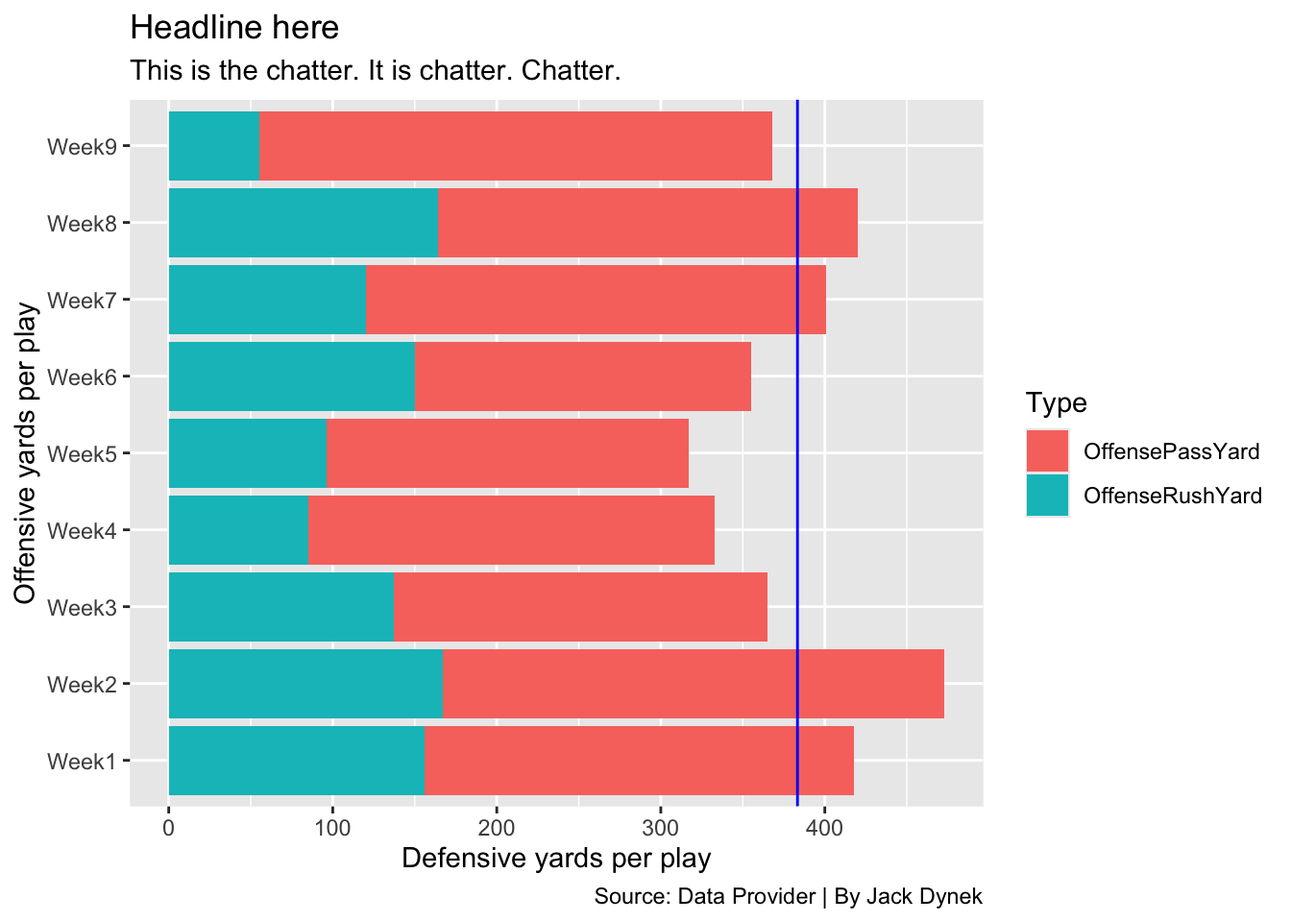
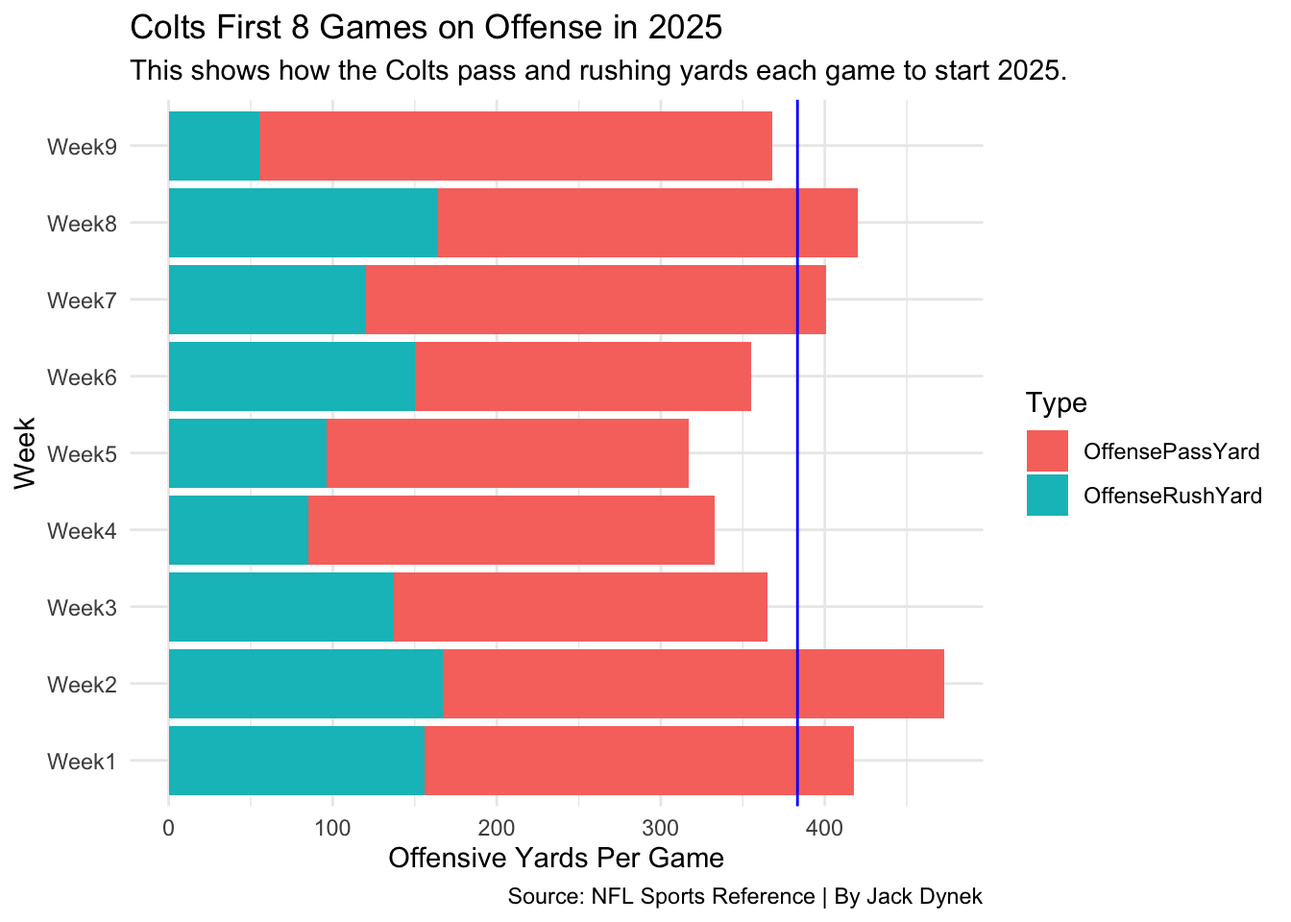
Final Changes

Changed region(s): [[0.0938, 0.0, 0.8125, 0.875], [0.3125, 0.9062, 0.625, 1.0], [0.0, 0.3125, 0.0312, 0.6562]]

diff --git a/posts/Colts/index.html b/posts/Colts/index.html
@@ -7,9 +7,9 @@
 <meta name="viewport" content="width=device-width, initial-scale=1.0, user-scalable=yes">
 
 <meta name="author" content="Jack Dynek">
-<meta name="dcterms.date" content="2025-11-04">
+<meta name="dcterms.date" content="2025-11-17">
 
-<title>The 2025 Colts Are A Spectacular Team – SportsBlog</title>
+<title>The 2025 Colts are an Unexpected Cindarella Story – SportsBlog</title>
 <style>
 code{white-space: pre-wrap;}
 span.smallcaps{font-variant: small-caps;}
@@ -154,7 +154,7 @@ pre > code.sourceCode > span > a:first-child::before { text-decoration: underlin
 <header id="title-block-header" class="quarto-title-block default page-columns page-full">
   <div class="quarto-title-banner page-columns page-full">
     <div class="quarto-title column-body">
-      <h1 class="title">The 2025 Colts Are A Spectacular Team</h1>
+      <h1 class="title">The 2025 Colts are an Unexpected Cindarella Story</h1>
                                 <div class="quarto-categories">
                 <div class="quarto-category">NFL</div>
                 <div class="quarto-category">Football</div>
@@ -176,7 +176,7 @@ pre > code.sourceCode > span > a:first-child::before { text-decoration: underlin
       <div>
       <div class="quarto-title-meta-heading">Published</div>
       <div class="quarto-title-meta-contents">
-        <p class="date">November 4, 2025</p>
+        <p class="date">November 17, 2025</p>
       </div>
     </div>
     
@@ -195,7 +195,9 @@ pre > code.sourceCode > span > a:first-child::before { text-decoration: underlin
 
 
 
-<p>The Indianapolis Colts in the course of one offseason have take a team that was nearly unwatchable, to an extremely exciting offense.</p>
+<p>The Indianapolis Colts in the course of one offseason have taken a team that was nearly unwatchable, to an extremely exciting offense.</p>
+<p>Through 10 games Daniel Jones is third in the league in Passing Yards, while Jonathan Taylor is leading the league by nearly 200 Rushing Yards as he looks to win his first Offensive Player of the Year and hopefully an MVP. But those stats understate how good this team has been.</p>
+<p>With last years team being 8-9 and incredibly boring to watch, this team already has 8 wins. With a turnaround like this fans have to wonder what changed for the colts. One statistic immediately jumps out this year compared to last for the colts, and that’s their Percentages of drives ending in scores.</p>
 <div class="cell">
 <details class="code-fold">
 <summary>Code</summary>
@@ -226,9 +228,10 @@ pre > code.sourceCode > span > a:first-child::before { text-decoration: underlin
 <span id="cb1-25"><a href="#cb1-25" aria-hidden="true" tabindex="-1"></a>    <span class="at">x=</span><span class="st">"Season"</span>, </span>
 <span id="cb1-26"><a href="#cb1-26" aria-hidden="true" tabindex="-1"></a>    <span class="at">y=</span><span class="st">"Percentage of drives ending in scores"</span>, </span>
 <span id="cb1-27"><a href="#cb1-27" aria-hidden="true" tabindex="-1"></a>    <span class="at">title=</span><span class="st">"NFL Offenses drives ending in scores by year"</span>, </span>
-<span id="cb1-28"><a href="#cb1-28" aria-hidden="true" tabindex="-1"></a>    <span class="at">subtitle=</span><span class="st">"This is the chatter. It is chatter. Chatter."</span>, </span>
+<span id="cb1-28"><a href="#cb1-28" aria-hidden="true" tabindex="-1"></a>    <span class="at">subtitle=</span><span class="st">"This is how the Colts compare against the past years Superbowl matchup."</span>, </span>
 <span id="cb1-29"><a href="#cb1-29" aria-hidden="true" tabindex="-1"></a>    <span class="at">caption=</span><span class="st">"Source: Data Provider | By Jack Dynek"</span></span>
-<span id="cb1-30"><a href="#cb1-30" aria-hidden="true" tabindex="-1"></a>    )</span></code></pre></div><button title="Copy to Clipboard" class="code-copy-button"><i class="bi"></i></button></div>
+<span id="cb1-30"><a href="#cb1-30" aria-hidden="true" tabindex="-1"></a>    ) <span class="sc">+</span></span>
+<span id="cb1-31"><a href="#cb1-31" aria-hidden="true" tabindex="-1"></a>  <span class="fu">theme_minimal</span>()</span></code></pre></div><button title="Copy to Clipboard" class="code-copy-button"><i class="bi"></i></button></div>
 </details>
 <div class="cell-output-display">
 <div>
@@ -238,7 +241,7 @@ pre > code.sourceCode > span > a:first-child::before { text-decoration: underlin
 </div>
 </div>
 </div>
-<p>As we can see</p>
+<p>As we can see the colts have made a major jump. going from bottom middle of the pack. To leading the league by over 6% of drives. With a turnaround like that it’s no wonder why this team is so much more successful. Beyond just that though their success can be reflected in how many more yards they’re averaging per game.</p>
 <div class="cell">
 <details class="code-fold">
 <summary>Code</summary>
@@ -264,12 +267,13 @@ pre > code.sourceCode > span > a:first-child::before { text-decoration: underlin
 <span id="cb2-20"><a href="#cb2-20" aria-hidden="true" tabindex="-1"></a>  <span class="fu">geom_bar</span>(<span class="at">data=</span>longame824, <span class="fu">aes</span>(<span class="at">x=</span>Week, <span class="at">weight=</span>Yards, <span class="at">fill=</span>Type)) <span class="sc">+</span> <span class="fu">geom_hline</span>(<span class="at">yintercept=</span><span class="dv">315</span>, <span class="at">color=</span><span class="st">"blue"</span>) <span class="sc">+</span></span>
 <span id="cb2-21"><a href="#cb2-21" aria-hidden="true" tabindex="-1"></a>  <span class="fu">coord_flip</span>()<span class="sc">+</span> </span>
 <span id="cb2-22"><a href="#cb2-22" aria-hidden="true" tabindex="-1"></a>  <span class="fu">labs</span>(</span>
-<span id="cb2-23"><a href="#cb2-23" aria-hidden="true" tabindex="-1"></a>    <span class="at">x=</span><span class="st">"Offensive yards per play"</span>, </span>
-<span id="cb2-24"><a href="#cb2-24" aria-hidden="true" tabindex="-1"></a>    <span class="at">y=</span><span class="st">"Defensive yards per play"</span>, </span>
-<span id="cb2-25"><a href="#cb2-25" aria-hidden="true" tabindex="-1"></a>    <span class="at">title=</span><span class="st">"Headline here"</span>, </span>
-<span id="cb2-26"><a href="#cb2-26" aria-hidden="true" tabindex="-1"></a>    <span class="at">subtitle=</span><span class="st">"This is the chatter. It is chatter. Chatter."</span>, </span>
+<span id="cb2-23"><a href="#cb2-23" aria-hidden="true" tabindex="-1"></a>    <span class="at">x=</span><span class="st">"Week"</span>, </span>
+<span id="cb2-24"><a href="#cb2-24" aria-hidden="true" tabindex="-1"></a>    <span class="at">y=</span><span class="st">"Offensive Yards Per Game"</span>, </span>
+<span id="cb2-25"><a href="#cb2-25" aria-hidden="true" tabindex="-1"></a>    <span class="at">title=</span><span class="st">"Colts First 8 Games on Offense in 2024"</span>, </span>
+<span id="cb2-26"><a href="#cb2-26" aria-hidden="true" tabindex="-1"></a>    <span class="at">subtitle=</span><span class="st">"This shows how the Colts pass and rushing yards each game to start 2024."</span>, </span>
 <span id="cb2-27"><a href="#cb2-27" aria-hidden="true" tabindex="-1"></a>    <span class="at">caption=</span><span class="st">"Source: Data Provider | By Jack Dynek"</span></span>
-<span id="cb2-28"><a href="#cb2-28" aria-hidden="true" tabindex="-1"></a>    )</span></code></pre></div><button title="Copy to Clipboard" class="code-copy-button"><i class="bi"></i></button></div>
+<span id="cb2-28"><a href="#cb2-28" aria-hidden="true" tabindex="-1"></a>    ) <span class="sc">+</span></span>
+<span id="cb2-29"><a href="#cb2-29" aria-hidden="true" tabindex="-1"></a>    <span class="fu">theme_minimal</span>()</span></code></pre></div><button title="Copy to Clipboard" class="code-copy-button"><i class="bi"></i></button></div>
 </details>
 <div class="cell-output-display">
 <div>
@@ -279,7 +283,7 @@ pre > code.sourceCode > span > a:first-child::before { text-decoration: underlin
 </div>
 </div>
 </div>
-<p>This is the start to the colts season in 2024, and it shows the 315 average</p>
+<p>This is the start to the colts season in 2024, and through eight games they averaged 315 yards and relied heavily on the pass game, only going over 400 yards once.</p>
 <div class="cell">
 <details class="code-fold">
 <summary>Code</summary>
@@ -287,12 +291,13 @@ pre > code.sourceCode > span > a:first-child::before { text-decoration: underlin
 <span id="cb3-2"><a href="#cb3-2" aria-hidden="true" tabindex="-1"></a>  <span class="fu">geom_bar</span>(<span class="at">data=</span>longame825, <span class="fu">aes</span>(<span class="at">x=</span>Week, <span class="at">weight=</span>Yards, <span class="at">fill=</span>Type)) <span class="sc">+</span> </span>
 <span id="cb3-3"><a href="#cb3-3" aria-hidden="true" tabindex="-1"></a>  <span class="fu">coord_flip</span>()<span class="sc">+</span>  <span class="fu">geom_hline</span>(<span class="at">yintercept=</span><span class="fl">383.33</span>, <span class="at">color=</span><span class="st">"blue"</span>) <span class="sc">+</span></span>
 <span id="cb3-4"><a href="#cb3-4" aria-hidden="true" tabindex="-1"></a>  <span class="fu">labs</span>(</span>
-<span id="cb3-5"><a href="#cb3-5" aria-hidden="true" tabindex="-1"></a>    <span class="at">x=</span><span class="st">"Offensive yards per play"</span>, </span>
-<span id="cb3-6"><a href="#cb3-6" aria-hidden="true" tabindex="-1"></a>    <span class="at">y=</span><span class="st">"Defensive yards per play"</span>, </span>
-<span id="cb3-7"><a href="#cb3-7" aria-hidden="true" tabindex="-1"></a>    <span class="at">title=</span><span class="st">"Headline here"</span>, </span>
-<span id="cb3-8"><a href="#cb3-8" aria-hidden="true" tabindex="-1"></a>    <span class="at">subtitle=</span><span class="st">"This is the chatter. It is chatter. Chatter."</span>, </span>
-<span id="cb3-9"><a href="#cb3-9" aria-hidden="true" tabindex="-1"></a>    <span class="at">caption=</span><span class="st">"Source: Data Provider | By Jack Dynek"</span></span>
-<span id="cb3-10"><a href="#cb3-10" aria-hidden="true" tabindex="-1"></a>    )</span></code></pre></div><button title="Copy to Clipboard" class="code-copy-button"><i class="bi"></i></button></div>
+<span id="cb3-5"><a href="#cb3-5" aria-hidden="true" tabindex="-1"></a>    <span class="at">x=</span><span class="st">"Week"</span>, </span>
+<span id="cb3-6"><a href="#cb3-6" aria-hidden="true" tabindex="-1"></a>    <span class="at">y=</span><span class="st">"Offensive Yards Per Game"</span>, </span>
+<span id="cb3-7"><a href="#cb3-7" aria-hidden="true" tabindex="-1"></a>    <span class="at">title=</span><span class="st">"Colts First 8 Games on Offense in 2025"</span>, </span>
+<span id="cb3-8"><a href="#cb3-8" aria-hidden="true" tabindex="-1"></a>    <span class="at">subtitle=</span><span class="st">"This shows how the Colts pass and rushing yards each game to start 2025."</span>, </span>
+<span id="cb3-9"><a href="#cb3-9" aria-hidden="true" tabindex="-1"></a>    <span class="at">caption=</span><span class="st">"Source: NFL Sports Reference | By Jack Dynek"</span></span>
+<span id="cb3-10"><a href="#cb3-10" aria-hidden="true" tabindex="-1"></a>    ) <span class="sc">+</span></span>
+<span id="cb3-11"><a href="#cb3-11" aria-hidden="true" tabindex="-1"></a>    <span class="fu">theme_minimal</span>()</span></code></pre></div><button title="Copy to Clipboard" class="code-copy-button"><i class="bi"></i></button></div>
 </details>
 <div class="cell-output-display">
 <div>
@@ -302,7 +307,8 @@ pre > code.sourceCode > span > a:first-child::before { text-decoration: underlin
 </div>
 </div>
 </div>
-<p>This on the other hand is the 2025 colts year, 383.3</p>
+<p>This on the other hand is the 2025 Colts year. They averaged 383 yards a game and have already had four games over 400 total yards with plenty of dominant performances from both the run and pass game.</p>
+<p>One player that has directly led to Colts passing game improving is Tyler Warren. Through eight games he already has more recieving yards than the entire Colts tight end room had last year in the entire season. His production is great against even seasoned veterans at the tight end position</p>
 <div class="cell">
 <details class="code-fold">
 <summary>Code</summary>
@@ -313,15 +319,17 @@ pre > code.sourceCode > span > a:first-child::before { text-decoration: underlin
 <span id="cb4-5"><a href="#cb4-5" aria-hidden="true" tabindex="-1"></a>  <span class="fu">arrange</span>(<span class="fu">desc</span>(Yds))</span>
 <span id="cb4-6"><a href="#cb4-6" aria-hidden="true" tabindex="-1"></a></span>
 <span id="cb4-7"><a href="#cb4-7" aria-hidden="true" tabindex="-1"></a>TW <span class="ot">&lt;-</span> terec <span class="sc">|&gt;</span> <span class="fu">filter</span>(Player <span class="sc">==</span> <span class="st">"Tyler Warren"</span>)</span>
-<span id="cb4-8"><a href="#cb4-8" aria-hidden="true" tabindex="-1"></a></span>
-<span id="cb4-9"><a href="#cb4-9" aria-hidden="true" tabindex="-1"></a><span class="fu">ggplot</span>() <span class="sc">+</span> <span class="fu">geom_point</span>(<span class="at">data=</span>terec, <span class="fu">aes</span>(<span class="at">x=</span>Yds, <span class="at">y=</span>Rec, <span class="at">size=</span>TD )) <span class="sc">+</span> <span class="fu">geom_point</span>(<span class="at">data=</span>TW, <span class="fu">aes</span>(<span class="at">x=</span>Yds, <span class="at">y=</span>Rec, <span class="at">size=</span>TD),<span class="at">color=</span><span class="st">"blue"</span>)<span class="sc">+</span> <span class="fu">geom_text_repel</span>(<span class="at">data=</span>TW, <span class="fu">aes</span>(<span class="at">x=</span><span class="dv">490</span>, <span class="at">y=</span><span class="dv">43</span>, <span class="at">label=</span>Player))<span class="sc">+</span></span>
-<span id="cb4-10"><a href="#cb4-10" aria-hidden="true" tabindex="-1"></a>  <span class="fu">labs</span>(</span>
-<span id="cb4-11"><a href="#cb4-11" aria-hidden="true" tabindex="-1"></a>    <span class="at">x=</span><span class="st">"Offensive yards per play"</span>, </span>
-<span id="cb4-12"><a href="#cb4-12" aria-hidden="true" tabindex="-1"></a>    <span class="at">y=</span><span class="st">"Defensive yards per play"</span>, </span>
-<span id="cb4-13"><a href="#cb4-13" aria-hidden="true" tabindex="-1"></a>    <span class="at">title=</span><span class="st">"Headline here"</span>, </span>
-<span id="cb4-14"><a href="#cb4-14" aria-hidden="true" tabindex="-1"></a>    <span class="at">subtitle=</span><span class="st">"This is the chatter. It is chatter. Chatter."</span>, </span>
-<span id="cb4-15"><a href="#cb4-15" aria-hidden="true" tabindex="-1"></a>    <span class="at">caption=</span><span class="st">"Source: Data Provider | By Jack Dynek"</span></span>
-<span id="cb4-16"><a href="#cb4-16" aria-hidden="true" tabindex="-1"></a>    )</span></code></pre></div><button title="Copy to Clipboard" class="code-copy-button"><i class="bi"></i></button></div>
+<span id="cb4-8"><a href="#cb4-8" aria-hidden="true" tabindex="-1"></a>TM <span class="ot">&lt;-</span> terec <span class="sc">|&gt;</span> <span class="fu">filter</span>(Player <span class="sc">==</span> <span class="st">"Trey McBride"</span>)</span>
+<span id="cb4-9"><a href="#cb4-9" aria-hidden="true" tabindex="-1"></a></span>
+<span id="cb4-10"><a href="#cb4-10" aria-hidden="true" tabindex="-1"></a><span class="fu">ggplot</span>() <span class="sc">+</span> <span class="fu">geom_point</span>(<span class="at">data=</span>terec, <span class="fu">aes</span>(<span class="at">x=</span>Yds, <span class="at">y=</span>Rec, <span class="at">size=</span>TD )) <span class="sc">+</span> <span class="fu">geom_point</span>(<span class="at">data=</span>TW, <span class="fu">aes</span>(<span class="at">x=</span>Yds, <span class="at">y=</span>Rec, <span class="at">size=</span>TD),<span class="at">color=</span><span class="st">"blue"</span>)<span class="sc">+</span> <span class="fu">geom_text_repel</span>(<span class="at">data=</span>TW, <span class="fu">aes</span>(<span class="at">x=</span><span class="dv">490</span>, <span class="at">y=</span><span class="dv">43</span>, <span class="at">label=</span>Player))<span class="sc">+</span> <span class="fu">geom_point</span>(<span class="at">data=</span>TM, <span class="fu">aes</span>(<span class="at">x=</span>Yds, <span class="at">y=</span>Rec, <span class="at">size=</span>TD),<span class="at">color=</span><span class="st">"red"</span>) <span class="sc">+</span> <span class="fu">geom_text_repel</span>(<span class="at">data=</span>TM, <span class="fu">aes</span>(<span class="at">x=</span><span class="dv">480</span>, <span class="at">y=</span><span class="dv">50</span>, <span class="at">label=</span>Player))<span class="sc">+</span></span>
+<span id="cb4-11"><a href="#cb4-11" aria-hidden="true" tabindex="-1"></a>  <span class="fu">labs</span>(</span>
+<span id="cb4-12"><a href="#cb4-12" aria-hidden="true" tabindex="-1"></a>    <span class="at">x=</span><span class="st">"Total Recieving Yards"</span>, </span>
+<span id="cb4-13"><a href="#cb4-13" aria-hidden="true" tabindex="-1"></a>    <span class="at">y=</span><span class="st">"Total Catches"</span>, </span>
+<span id="cb4-14"><a href="#cb4-14" aria-hidden="true" tabindex="-1"></a>    <span class="at">title=</span><span class="st">"NFL Tight End Recieving Leaders"</span>, </span>
+<span id="cb4-15"><a href="#cb4-15" aria-hidden="true" tabindex="-1"></a>    <span class="at">subtitle=</span><span class="st">"This is how tight ends across the league compare statistically with each other."</span>, </span>
+<span id="cb4-16"><a href="#cb4-16" aria-hidden="true" tabindex="-1"></a>    <span class="at">caption=</span><span class="st">"Source: NFL Sports Reference | By Jack Dynek"</span></span>
+<span id="cb4-17"><a href="#cb4-17" aria-hidden="true" tabindex="-1"></a>    ) <span class="sc">+</span></span>
+<span id="cb4-18"><a href="#cb4-18" aria-hidden="true" tabindex="-1"></a>    <span class="fu">theme_minimal</span>()</span></code></pre></div><button title="Copy to Clipboard" class="code-copy-button"><i class="bi"></i></button></div>
 </details>
 <div class="cell-output-display">
 <div>
@@ -331,34 +339,24 @@ pre > code.sourceCode > span > a:first-child::before { text-decoration: underlin
 </div>
 </div>
 </div>
+<p>While Tyler Warren has meant a lot for the Colts, it’s hard to argue any players impact more than Jonathan Taylor’s. He has been dominant to begin the season and leads all running backs in yards and touchdowns.This data accounts for his first 9 games prior to his dominant performance against the Falcons, but still illustrates his spectacular year.</p>
 <div class="cell">
 <details class="code-fold">
 <summary>Code</summary>
-<div class="code-copy-outer-scaffold"><div class="sourceCode cell-code" id="cb5"><pre class="sourceCode r code-with-copy"><code class="sourceCode r"><span id="cb5-1"><a href="#cb5-1" aria-hidden="true" tabindex="-1"></a>rushing <span class="ot">&lt;-</span> <span class="fu">read_csv</span>(<span class="st">"rushing_2025.csv"</span>)</span></code></pre></div><button title="Copy to Clipboard" class="code-copy-button"><i class="bi"></i></button></div>
-</details>
-<div class="cell-output cell-output-stderr">
-<pre><code>Rows: 506 Columns: 19
-── Column specification ────────────────────────────────────────────────────────
-Delimiter: ","
-chr  (4): Player, Team, Pos, -9999
-dbl (14): Rk, Age, G, GS, Att, Yds, TD, 1D, Succ%, Lng, Y/A, Y/G, A/G, Fmb
-lgl  (1): Awards
-
-ℹ Use `spec()` to retrieve the full column specification for this data.
-ℹ Specify the column types or set `show_col_types = FALSE` to quiet this message.</code></pre>
-</div>
-<details class="code-fold">
-<summary>Code</summary>
-<div class="code-copy-outer-scaffold"><div class="sourceCode cell-code" id="cb7"><pre class="sourceCode r code-with-copy"><code class="sourceCode r"><span id="cb7-1"><a href="#cb7-1" aria-hidden="true" tabindex="-1"></a>JT <span class="ot">&lt;-</span> rushing <span class="sc">|&gt;</span> <span class="fu">filter</span>(Player <span class="sc">==</span> <span class="st">"Jonathan Taylor"</span>)</span>
-<span id="cb7-2"><a href="#cb7-2" aria-hidden="true" tabindex="-1"></a></span>
-<span id="cb7-3"><a href="#cb7-3" aria-hidden="true" tabindex="-1"></a><span class="fu">ggplot</span>() <span class="sc">+</span> <span class="fu">geom_point</span>(<span class="at">data=</span>rushing, <span class="fu">aes</span>(<span class="at">x=</span>Yds, <span class="at">y=</span>Att, <span class="at">size=</span>TD )) <span class="sc">+</span> <span class="fu">geom_point</span>(<span class="at">data=</span>JT, <span class="fu">aes</span>(<span class="at">x=</span>Yds, <span class="at">y=</span>Att, <span class="at">size=</span>TD),<span class="at">color=</span><span class="st">"blue"</span>)<span class="sc">+</span> <span class="fu">geom_text</span>(<span class="at">data=</span>JT, <span class="fu">aes</span>(<span class="at">x=</span><span class="dv">780</span>, <span class="at">y=</span><span class="dv">160</span>, <span class="at">label=</span>Player))<span class="sc">+</span></span>
-<span id="cb7-4"><a href="#cb7-4" aria-hidden="true" tabindex="-1"></a>  <span class="fu">labs</span>(</span>
-<span id="cb7-5"><a href="#cb7-5" aria-hidden="true" tabindex="-1"></a>    <span class="at">x=</span><span class="st">"Offensive yards per play"</span>, </span>
-<span id="cb7-6"><a href="#cb7-6" aria-hidden="true" tabindex="-1"></a>    <span class="at">y=</span><span class="st">"Defensive yards per play"</span>, </span>
-<span id="cb7-7"><a href="#cb7-7" aria-hidden="true" tabindex="-1"></a>    <span class="at">title=</span><span class="st">"Headline here"</span>, </span>
-<span id="cb7-8"><a href="#cb7-8" aria-hidden="true" tabindex="-1"></a>    <span class="at">subtitle=</span><span class="st">"This is the chatter. It is chatter. Chatter."</span>, </span>
-<span id="cb7-9"><a href="#cb7-9" aria-hidden="true" tabindex="-1"></a>    <span class="at">caption=</span><span class="st">"Source: NFL Sports Reference | By Jack Dynek"</span></span>
-<span id="cb7-10"><a href="#cb7-10" aria-hidden="true" tabindex="-1"></a>    )</span></code></pre></div><button title="Copy to Clipboard" class="code-copy-button"><i class="bi"></i></button></div>
+<div class="code-copy-outer-scaffold"><div class="sourceCode cell-code" id="cb5"><pre class="sourceCode r code-with-copy"><code class="sourceCode r"><span id="cb5-1"><a href="#cb5-1" aria-hidden="true" tabindex="-1"></a>rushing <span class="ot">&lt;-</span> <span class="fu">read_csv</span>(<span class="st">"rushing_2025.csv"</span>)</span>
+<span id="cb5-2"><a href="#cb5-2" aria-hidden="true" tabindex="-1"></a></span>
+<span id="cb5-3"><a href="#cb5-3" aria-hidden="true" tabindex="-1"></a>JT <span class="ot">&lt;-</span> rushing <span class="sc">|&gt;</span> <span class="fu">filter</span>(Player <span class="sc">==</span> <span class="st">"Jonathan Taylor"</span>)</span>
+<span id="cb5-4"><a href="#cb5-4" aria-hidden="true" tabindex="-1"></a>CMC <span class="ot">&lt;-</span> rushing <span class="sc">|&gt;</span> <span class="fu">filter</span>(Player <span class="sc">==</span> <span class="st">"Christian McCaffrey"</span>)</span>
+<span id="cb5-5"><a href="#cb5-5" aria-hidden="true" tabindex="-1"></a></span>
+<span id="cb5-6"><a href="#cb5-6" aria-hidden="true" tabindex="-1"></a><span class="fu">ggplot</span>() <span class="sc">+</span> <span class="fu">geom_point</span>(<span class="at">data=</span>rushing, <span class="fu">aes</span>(<span class="at">x=</span>Yds, <span class="at">y=</span>Att, <span class="at">size=</span>TD )) <span class="sc">+</span> <span class="fu">geom_point</span>(<span class="at">data=</span>JT, <span class="fu">aes</span>(<span class="at">x=</span>Yds, <span class="at">y=</span>Att, <span class="at">size=</span>TD),<span class="at">color=</span><span class="st">"blue"</span>)<span class="sc">+</span> <span class="fu">geom_text</span>(<span class="at">data=</span>JT, <span class="fu">aes</span>(<span class="at">x=</span><span class="dv">775</span>, <span class="at">y=</span><span class="dv">161</span>, <span class="at">label=</span>Player)) <span class="sc">+</span> <span class="fu">geom_point</span>(<span class="at">data=</span>CMC, <span class="fu">aes</span>(<span class="at">x=</span>Yds, <span class="at">y=</span>Att, <span class="at">size=</span>TD),<span class="at">color=</span><span class="st">"darkred"</span>)<span class="sc">+</span> <span class="fu">geom_text</span>(<span class="at">data=</span>CMC, <span class="fu">aes</span>(<span class="at">x=</span><span class="dv">525</span>, <span class="at">y=</span><span class="dv">161</span>, <span class="at">label=</span>Player))<span class="sc">+</span></span>
+<span id="cb5-7"><a href="#cb5-7" aria-hidden="true" tabindex="-1"></a>  <span class="fu">labs</span>(</span>
+<span id="cb5-8"><a href="#cb5-8" aria-hidden="true" tabindex="-1"></a>    <span class="at">x=</span><span class="st">"Rushing Yards"</span>, </span>
+<span id="cb5-9"><a href="#cb5-9" aria-hidden="true" tabindex="-1"></a>    <span class="at">y=</span><span class="st">"Rushing Attempts"</span>, </span>
+<span id="cb5-10"><a href="#cb5-10" aria-hidden="true" tabindex="-1"></a>    <span class="at">title=</span><span class="st">"NFL Rushing Leaders"</span>, </span>
+<span id="cb5-11"><a href="#cb5-11" aria-hidden="true" tabindex="-1"></a>    <span class="at">subtitle=</span><span class="st">"This is how NFL running backs compare statistically against each other"</span>, </span>
+<span id="cb5-12"><a href="#cb5-12" aria-hidden="true" tabindex="-1"></a>    <span class="at">caption=</span><span class="st">"Source: NFL Sports Reference | By Jack Dynek"</span></span>
+<span id="cb5-13"><a href="#cb5-13" aria-hidden="true" tabindex="-1"></a>    ) <span class="sc">+</span></span>
+<span id="cb5-14"><a href="#cb5-14" aria-hidden="true" tabindex="-1"></a>    <span class="fu">theme_minimal</span>()</span></code></pre></div><button title="Copy to Clipboard" class="code-copy-button"><i class="bi"></i></button></div>
 </details>
 <div class="cell-output-display">
 <div>
@@ -368,6 +366,7 @@ lgl  (1): Awards
 </div>
 </div>
 </div>
+<p>All of these combine to show how the colts have improved to be a much better team than they were in the 2024 season and time will tell how they finish out the remainder of the year.</p>
 
 
 

diff --git a/index.html b/index.html
@@ -209,15 +209,15 @@ window.Quarto = {
 
 <div class="quarto-listing quarto-listing-container-default" id="listing-listing">
 <div class="list quarto-listing-default">
-<div class="quarto-post image-right" data-index="0" data-categories="TkZMJTJDRm9vdGJhbGwlMkNHcmFwaHM=" data-listing-date-sort="1762236000000" data-listing-file-modified-sort="1763438101137" data-listing-date-modified-sort="NaN" data-listing-reading-time-sort="4" data-listing-word-count-sort="613">
-<div class="thumbnail"><a href="./posts/Colts/index.html" class="no-external">
+<div class="quarto-post image-right" data-index="0" data-categories="TkZMJTJDRm9vdGJhbGwlMkNHcmFwaHM=" data-listing-date-sort="1763359200000" data-listing-file-modified-sort="1763443927586" data-listing-date-modified-sort="NaN" data-listing-reading-time-sort="6" data-listing-word-count-sort="1042">
+<div class="thumbnail"><a href="./posts/colts/index.html" class="no-external">
 
-<img loading="lazy" src="./posts/Colts/image.png" class="thumbnail-image">
+<img loading="lazy" src="./posts/colts/image.png" class="thumbnail-image">
 
 </a></div>
 <div class="body">
 <h3 class="no-anchor listing-title">
-<a href="./posts/Colts/index.html" class="no-external">The 2025 Colts Are A Spectacular Team</a>
+<a href="./posts/colts/index.html" class="no-external">The 2025 Colts are an Unexpected Cindarella Story</a>
 </h3>
 <div class="listing-categories">
 
@@ -228,14 +228,14 @@ window.Quarto = {
 <div class="listing-category" onclick="window.quartoListingCategory('R3JhcGhz'); return false;">Graphs</div>
 
 </div>
-<div class="delink listing-description"><a href="./posts/Colts/index.html" class="no-external">
-The Indianapolis Colts in the course of one offseason have take a team that was nearly unwatchable, to an extremely exciting offense.
+<div class="delink listing-description"><a href="./posts/colts/index.html" class="no-external">
+The Indianapolis Colts in the course of one offseason have taken a team that was nearly unwatchable, to an extremely exciting offense.
 </a></div>
 </div>
 <div class="metadata">
-<a href="./posts/Colts/index.html" class="no-external">
+<a href="./posts/colts/index.html" class="no-external">
 <div class="listing-date">
-Nov 4, 2025
+Nov 17, 2025
 </div>
 <div class="listing-author">
 Jack Dynek
